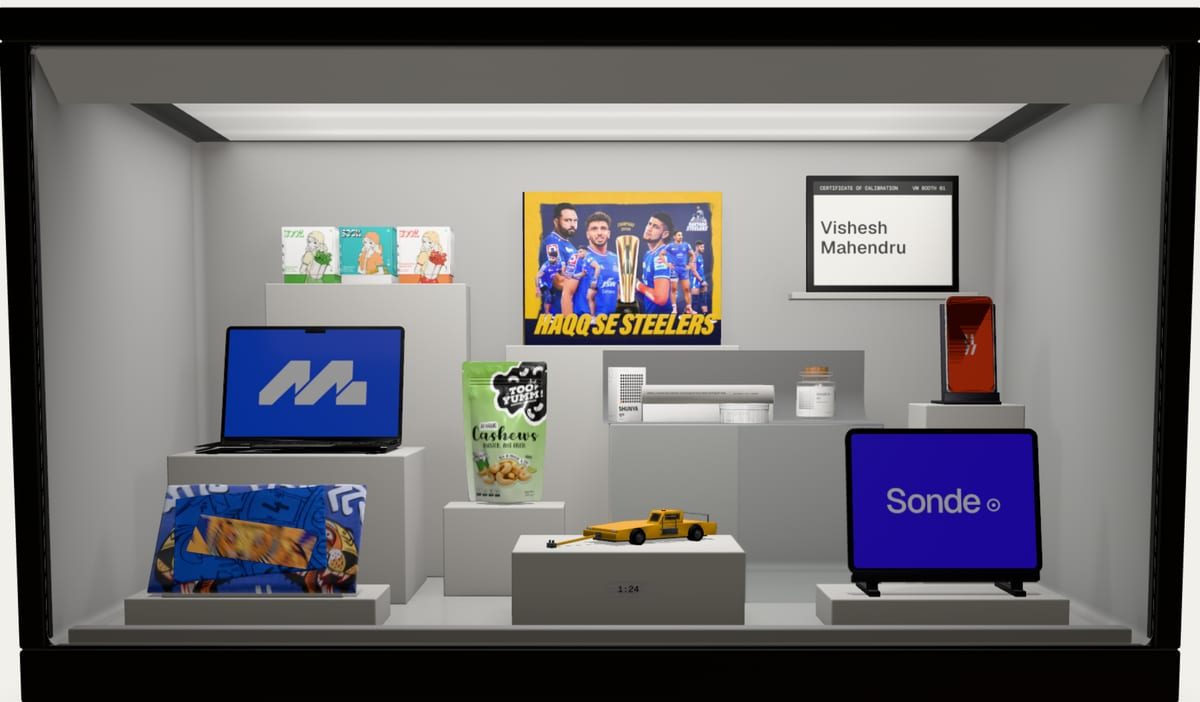
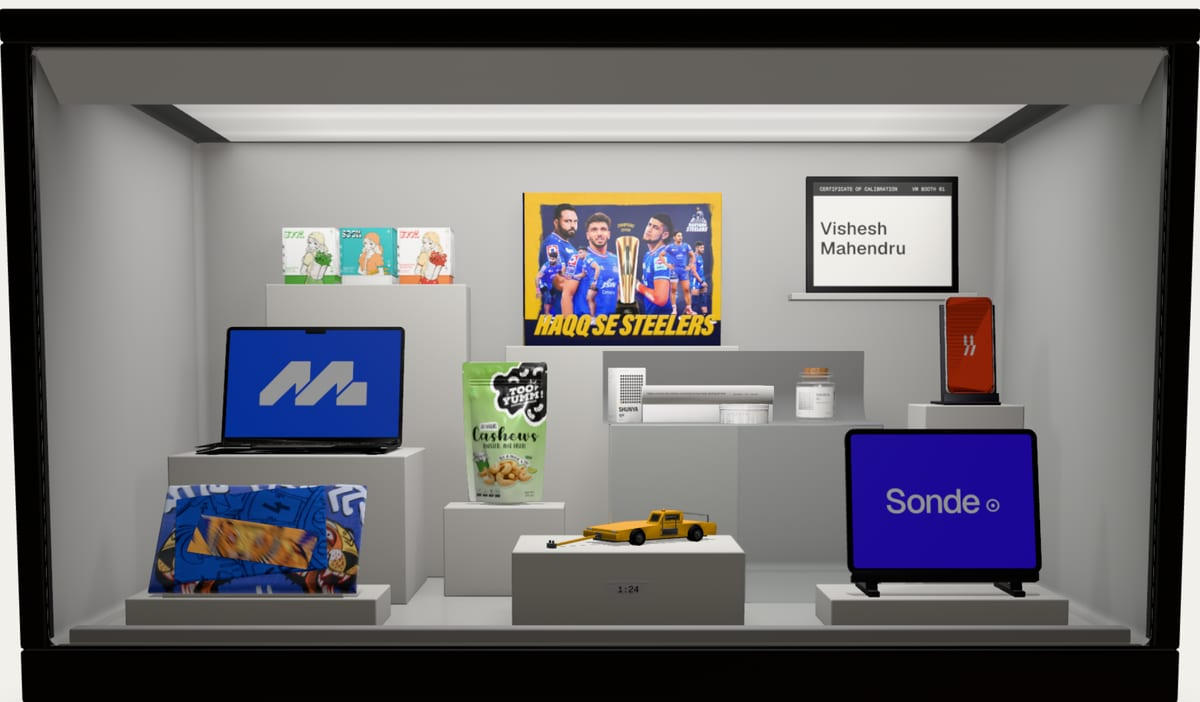
08: hover reaches the booth (poster ignores the pointer), screen glass without direct coat specular (no hot spot), the active sample's empty base drops out on the tray, cabinet fit 1px inside its frame, folded lamp pill docks bottom left; posters regenerated; check-switch picks what the booth picks
Claude-Session: https://claude.ai/code/session_01RuhKxfnJBpDdXDCHDdVnoZ

diff --git a/app/globals.css b/app/globals.css
@@ -172,7 +172,9 @@ html:has(.panel[data-place='float']) { --panel-clear: 76px; }
   display: flex; flex-direction: row; align-items: stretch; gap: 6px;
 }
 .panel[data-place='float'] { transition: transform 220ms cubic-bezier(0.2, 0, 0, 1), opacity 220ms linear; }
-.panel[data-place='float'][data-away='true'] { transform: translate(-50%, calc(100% + var(--gutter) + 8px)); opacity: 0; pointer-events: none; }
+/* H3 (08): folded, the pill docks bottom left (the text column on project pages), off the proofs */
+.panel[data-place='float'][data-folded='true'] { left: var(--gutter); transform: none; }
+.panel[data-place='float'][data-away='true'] { transform: translateY(calc(100% + var(--gutter) + 8px)); opacity: 0; pointer-events: none; }
 .panel[data-place='float'][data-folded='true'] { padding: 2px; }
 .panel[data-place='inline'] { position: relative; left: auto; bottom: auto; transform: none; z-index: 2; box-shadow: inset 0 1px 0 rgba(255,255,255,0.06), 0 4px 14px rgba(0,0,0,0.14); }
 .rocker {

diff --git a/components/booth/shots.ts b/components/booth/shots.ts
@@ -66,6 +66,9 @@ export function cabinetShot(
   const hit = cache.get(key);
   if (hit) return hit;
   const portrait = box.width / box.height < 1;
+  // the drawn silhouette (antialiased edge, chamfered frame) reaches ~1px past the face's projected
+  // corners: fit a landscape cabinet 1px inside the box on each side, so it never draws past its frame
+  if (!portrait) box = { left: box.left + 1, top: box.top + 1, width: box.width - 2, height: box.height - 1 };
   // bisection on distance: projected size falls monotonically as the camera backs off
   let lo = 0.3, hi = 30;
   for (let i = 0; i < 40; i++) {
